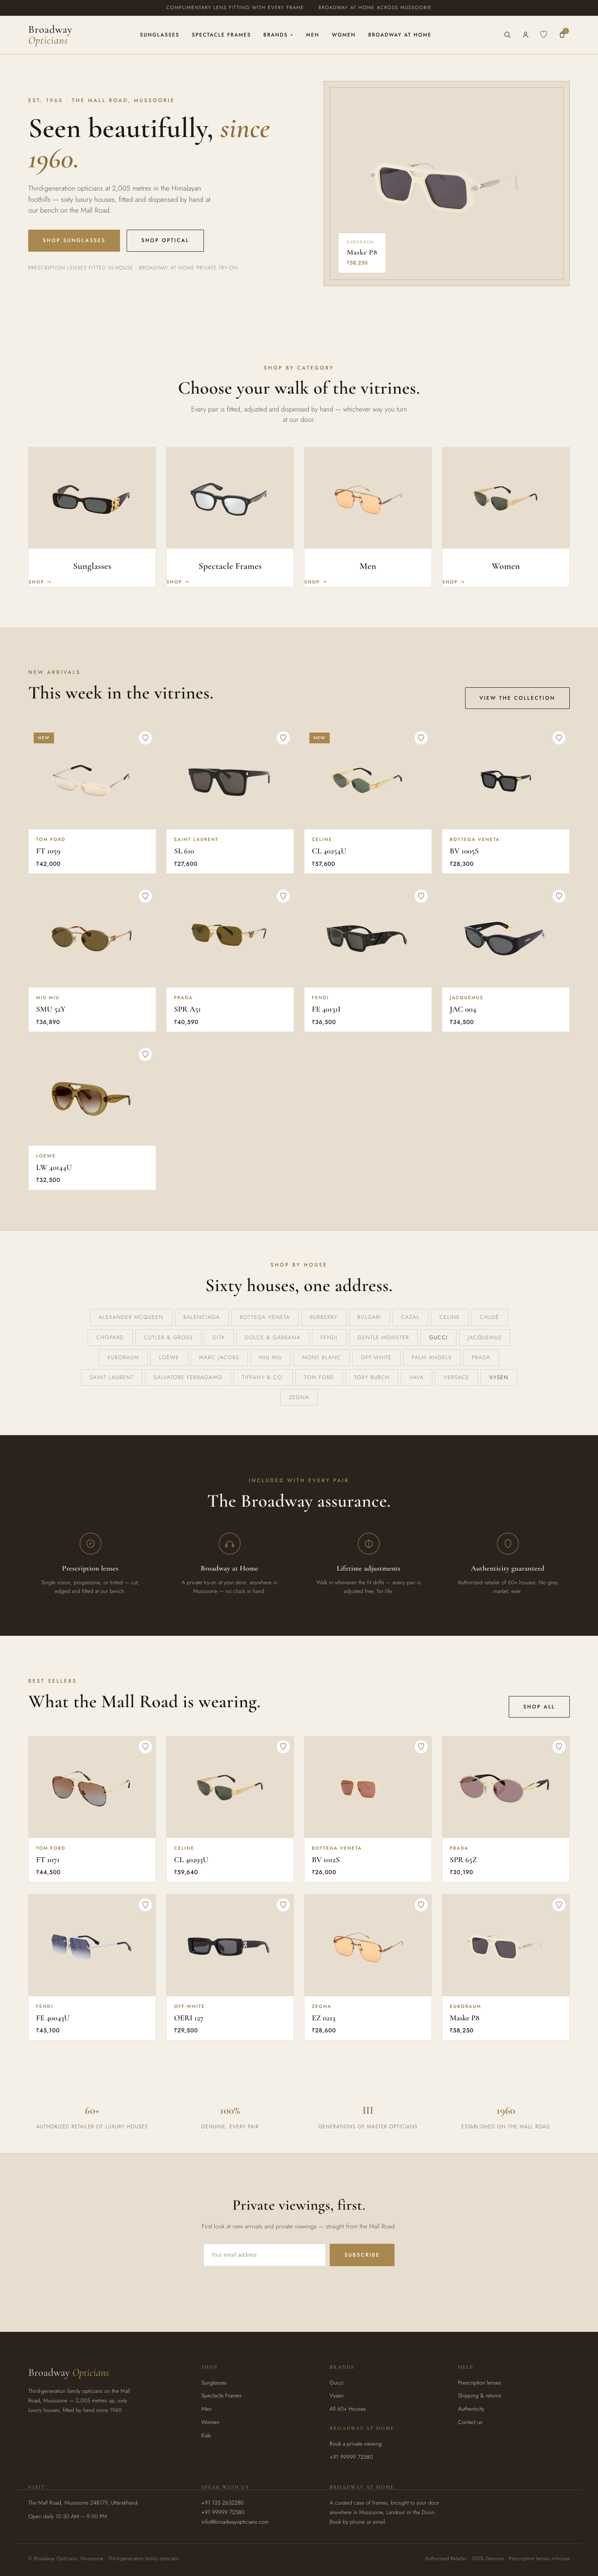
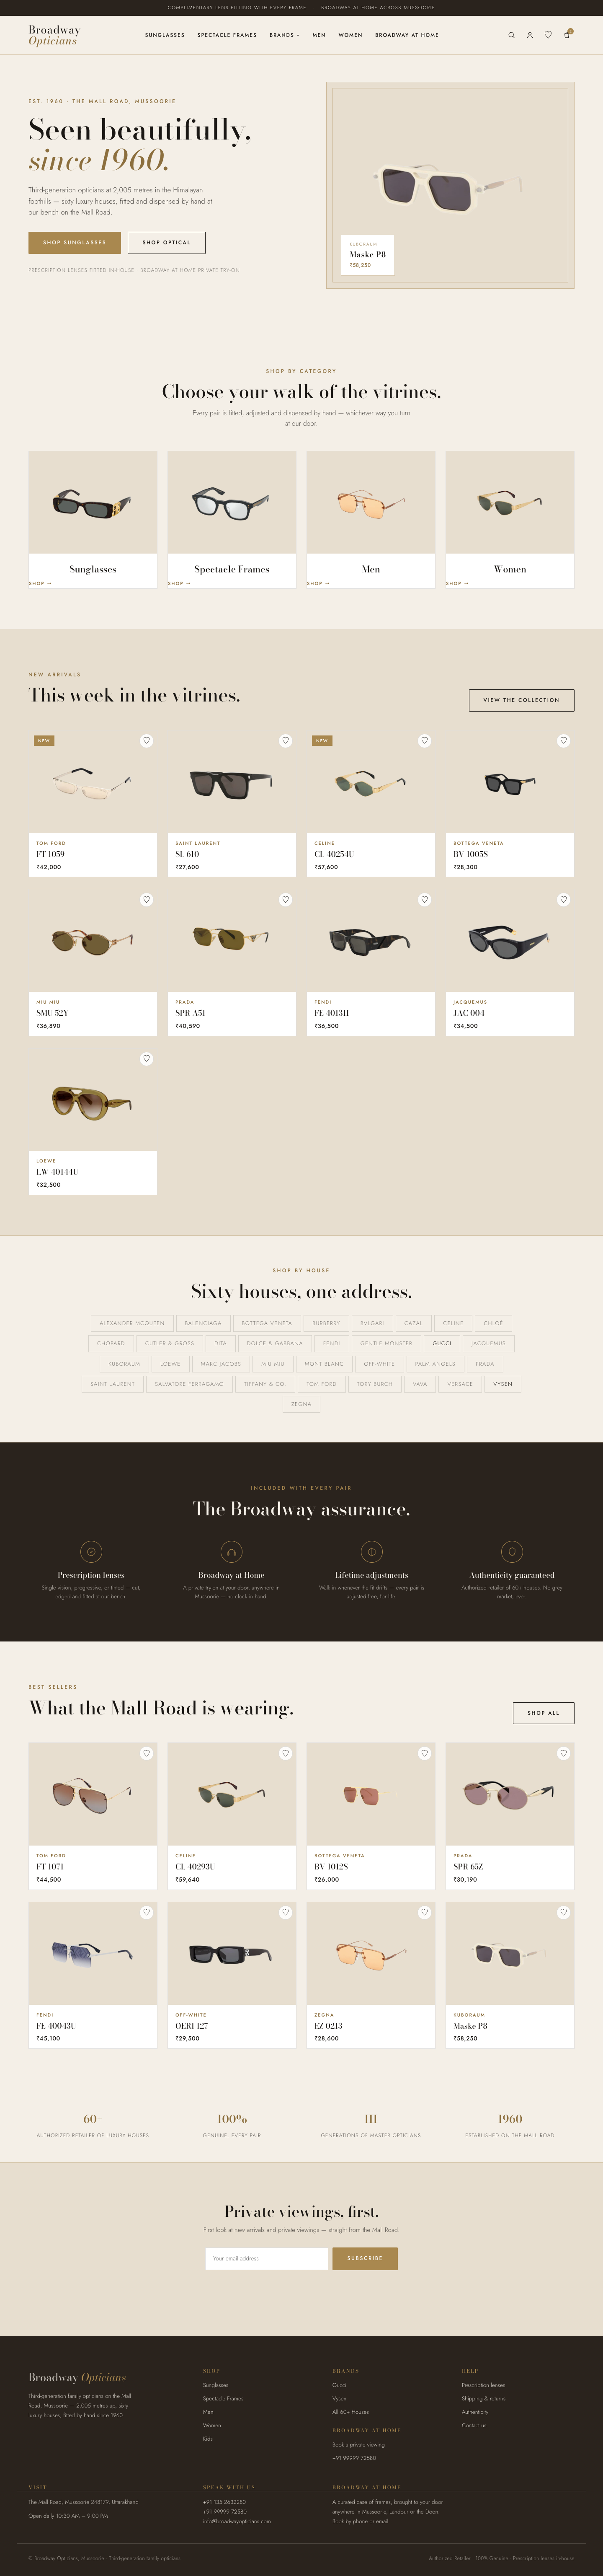
Maison storefront: replace Cormorant with Bodoni Moda (Didone) per luxury type research; refine weights/tracking

diff --git a/05-maison/styles.css b/05-maison/styles.css
@@ -31,7 +31,7 @@ html{scroll-behavior:smooth;}
   --line-gold:rgba(169,136,79,0.45);
   --shadow:0 18px 40px rgba(27,24,21,0.10);
   --radius:2px;
-  --font-display:'Cormorant Garamond', serif;
+  --font-display:'Bodoni Moda', Georgia, serif;
   --font-ui:'Jost', sans-serif;
 }
 
@@ -64,7 +64,7 @@ body{
 
 :focus-visible{outline:2px solid var(--gold);outline-offset:3px;}
 
-h1,h2,h3{font-family:var(--font-display);font-weight:600;letter-spacing:.01em;color:var(--ink);}
+h1,h2,h3{font-family:var(--font-display);font-weight:500;letter-spacing:0;color:var(--ink);line-height:1.12;}
 
 .eyebrow{
   display:inline-block;font-family:var(--font-ui);font-size:12px;letter-spacing:.28em;
@@ -261,7 +261,7 @@ body.nav-open .nav-toggle span:nth-child(3){transform:translateY(-6px) rotate(-4
 .p-wish[aria-pressed="true"] .gh::before{content:"♥";}
 .p-card-info{padding:16px 18px 12px;text-align:left;flex:1;}
 .p-vendor{display:block;font-size:11px;letter-spacing:.18em;text-transform:uppercase;color:var(--gold-dark);font-weight:500;margin-bottom:4px;}
-.p-name{display:block;font-family:var(--font-display);font-size:19px;font-weight:600;margin-bottom:6px;}
+.p-name{display:block;font-family:var(--font-display);font-size:18px;font-weight:500;letter-spacing:.01em;margin-bottom:6px;}
 .p-price{display:block;font-size:14px;letter-spacing:.04em;font-weight:500;}
 .p-add-bar{
   overflow:hidden;max-height:0;transition:max-height .28s ease;

diff --git a/05-maison/brand-gucci.html b/05-maison/brand-gucci.html
@@ -7,7 +7,7 @@
 <meta name="description" content="Authentic Gucci eyewear at Broadway Opticians, the Mall Road, Mussoorie. Fourteen pieces from the House of Gucci — authorized retailer since 1960.">
 <link rel="preconnect" href="https://fonts.googleapis.com">
 <link rel="preconnect" href="https://fonts.gstatic.com" crossorigin>
-<link href="https://fonts.googleapis.com/css2?family=Cormorant+Garamond:ital,wght@0,500;0,600;1,500;1,600&family=Jost:wght@300;400;500&display=swap" rel="stylesheet">
+<link href="https://fonts.googleapis.com/css2?family=Bodoni+Moda:ital,opsz,wght@0,6..96,400..700;1,6..96,400..600&family=Jost:wght@300;400;500&display=swap" rel="stylesheet">
 <link rel="stylesheet" href="styles.css">
 </head>
 <body class="page-gucci">

diff --git a/05-maison/brand-vysen.html b/05-maison/brand-vysen.html
@@ -7,7 +7,7 @@
 <meta name="description" content="Vysen eyewear at Broadway Opticians, the Mall Road, Mussoorie. An independent Miami luxury house — Japanese titanium, Italian acetate, the signature red temple-tip.">
 <link rel="preconnect" href="https://fonts.googleapis.com">
 <link rel="preconnect" href="https://fonts.gstatic.com" crossorigin>
-<link href="https://fonts.googleapis.com/css2?family=Cormorant+Garamond:ital,wght@0,500;0,600;1,500;1,600&family=Jost:wght@300;400;500&family=Montserrat:wght@400;500;600;700&display=swap" rel="stylesheet">
+<link href="https://fonts.googleapis.com/css2?family=Bodoni+Moda:ital,opsz,wght@0,6..96,400..700;1,6..96,400..600&family=Jost:wght@300;400;500&family=Montserrat:wght@300;400;500;600&display=swap" rel="stylesheet">
 <link rel="stylesheet" href="styles.css">
 </head>
 <body class="page-vysen">

diff --git a/05-maison/index.html b/05-maison/index.html
@@ -7,7 +7,7 @@
 <meta name="description" content="Broadway Opticians — a luxury eyewear boutique on the Mall Road, Mussoorie since 1960. 60+ houses, prescription lenses fitted in-house, and Broadway at Home private try-on.">
 <link rel="preconnect" href="https://fonts.googleapis.com">
 <link rel="preconnect" href="https://fonts.gstatic.com" crossorigin>
-<link href="https://fonts.googleapis.com/css2?family=Cormorant+Garamond:ital,wght@0,500;0,600;1,500;1,600&family=Jost:wght@300;400;500&display=swap" rel="stylesheet">
+<link href="https://fonts.googleapis.com/css2?family=Bodoni+Moda:ital,opsz,wght@0,6..96,400..700;1,6..96,400..600&family=Jost:wght@300;400;500&display=swap" rel="stylesheet">
 <link rel="stylesheet" href="styles.css">
 </head>
 <body>

diff --git a/05-maison/product.html b/05-maison/product.html
@@ -7,7 +7,7 @@
 <meta name="description" content="Saint Laurent SL 545 sunglasses, ₹27,900 — at Broadway Opticians, The Mall Road, Mussoorie. Prescription-ready, home try-on available.">
 <link rel="preconnect" href="https://fonts.googleapis.com">
 <link rel="preconnect" href="https://fonts.gstatic.com" crossorigin>
-<link href="https://fonts.googleapis.com/css2?family=Cormorant+Garamond:ital,wght@0,500;0,600;1,500;1,600&family=Jost:wght@300;400;500&display=swap" rel="stylesheet">
+<link href="https://fonts.googleapis.com/css2?family=Bodoni+Moda:ital,opsz,wght@0,6..96,400..700;1,6..96,400..600&family=Jost:wght@300;400;500&display=swap" rel="stylesheet">
 <link rel="stylesheet" href="styles.css">
 </head>
 <body>